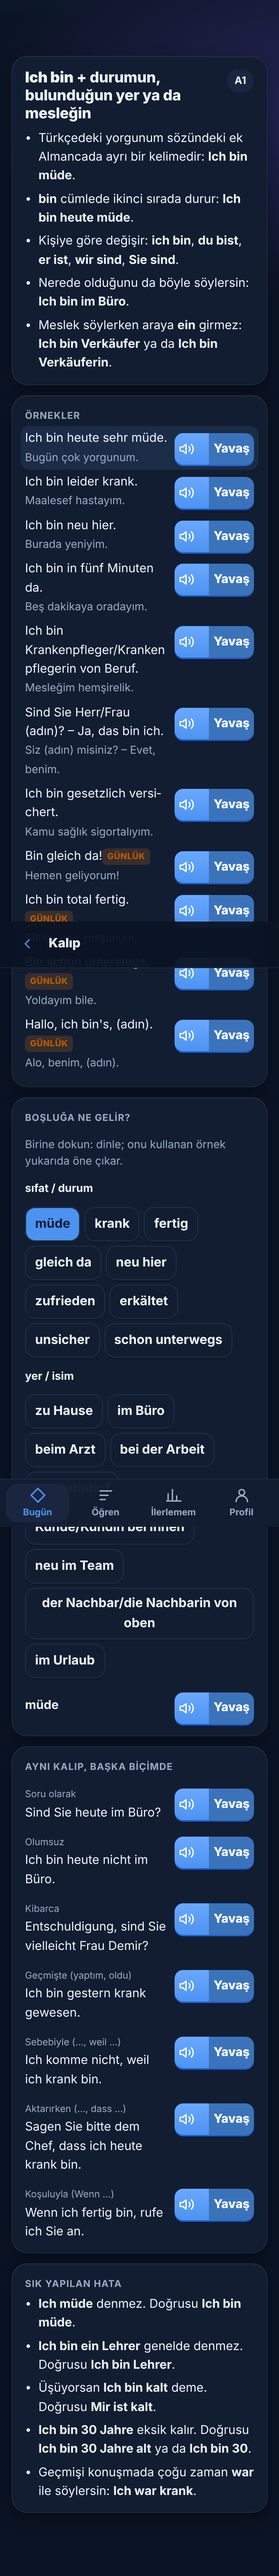
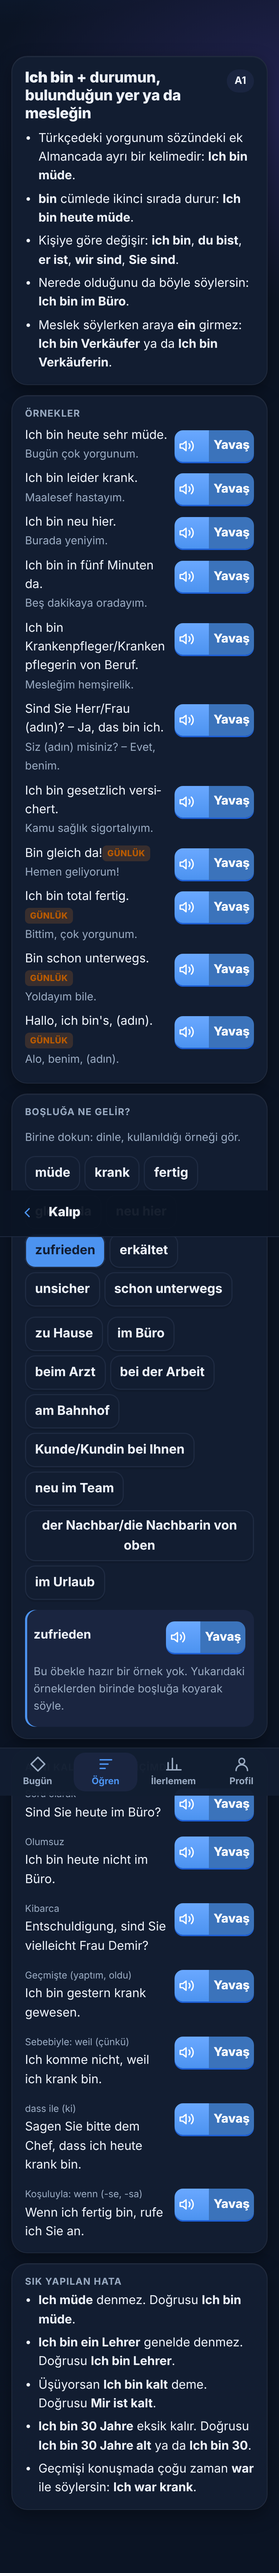
M1 B2: inceleme #94 1. tur — boşluk adları (terimli yazar alanı) gizli, seçilen öbeğin örneği çiplerin altında ve ekranda (yoksa açıklama + yerel anlam), alıştırmadan kalıp kartı alt sayfada (ilerleme korunur), Sözlük'e geri dönüş, Öğren sekmesi seçili, terimsiz dönüşüm etiketleri; e2e kanıtları
#58 B2 · D-110 · OD-9

Claude-Session: https://claude.ai/code/session_016gishG3oMjbKiLi4Fij94B

diff --git a/web/src/screens/Kalip.tsx b/web/src/screens/Kalip.tsx
@@ -4,34 +4,41 @@
  * yazar notudur, gösterilmez (OD-9). Liste: `#/kalip`; kart: `#/kalip/<id>`. Çevrimdışı (sözlük paketiyle gelir).
  */
 import { useEffect, useState } from "preact/hooks";
-import type { Pattern } from "@dw/shared";
+import type { Lexeme, Pattern } from "@dw/shared";
 import { useApp } from "../state.ts";
 import { loadLexicon } from "../services/content.ts";
 import { personalizeDeep } from "../core/persona.ts";
 import { DONUSUM_SIRA, DONUSUM_TR, kalipSirasi, ornekteGecer } from "../core/kalip.ts";
 import { ListenButton, ProgressHeader } from "../ui/kit.tsx";
+import { yerelAcikla } from "../core/sozluk.ts";
+import { Icon } from "../ui/icons.tsx";
 import { ErrorPanel, Loading } from "../ui/components.tsx";
 import { Rich } from "../ui/rich.tsx";
 
-function useKaliplar() {
+export function useKaliplar() {
   const { profile } = useApp();
   const [ps, setPs] = useState<Pattern[] | null>(null);
+  const [lex, setLex] = useState<Lexeme[]>([]);
   const [err, setErr] = useState<string | null>(null);
   useEffect(() => {
-    loadLexicon().then((x) => setPs(personalizeDeep(x.patterns, { name: profile.displayName, address: profile.address })))
+    loadLexicon().then((x) => { setPs(personalizeDeep(x.patterns, { name: profile.displayName, address: profile.address })); setLex(x.lexemes); })
       .catch((e) => setErr(String(e?.message || e)));
   }, []);
-  return { ps, err };
+  return { ps, lex, err };
 }
 
+/** Karttan dönüş: Sözlük'ten gelindiyse oraya (sessionStorage), yoksa listeye (inceleme #94 P1-3) */
+export const KALIP_GERI = "dw:kalip-geri";
+const geriAdres = () => { try { return sessionStorage.getItem(KALIP_GERI) || "#/kalip"; } catch { return "#/kalip"; } };
+
 export function KalipEkrani({ id }: { id?: string }) {
-  const { ps, err } = useKaliplar();
+  const { ps, lex, err } = useKaliplar();
   if (err) return <div class="stack"><ProgressHeader title="Kalıplar" back="#/learn" /><ErrorPanel message={err} onRetry={() => location.reload()} /></div>;
   if (!ps) return <Loading />;
   if (!id) return <KalipListesi ps={ps} />;
   const p = ps.find((x) => x.id === id);
   if (!p) return <div class="stack"><ProgressHeader title="Kalıp" back="#/kalip" /><ErrorPanel message="Bu kalıp bulunamadı." /></div>;
-  return <KalipKarti p={p} />;
+  return <KalipKarti p={p} lex={lex} back={geriAdres()} />;
 }
 
 function KalipListesi({ ps }: { ps: Pattern[] }) {
@@ -40,7 +47,7 @@ function KalipListesi({ ps }: { ps: Pattern[] }) {
       <ProgressHeader title="Kalıplar" back="#/learn" />
       <p class="small muted">Cümle kurmanın kalıpları: kuralı, örnekleri, boşluğa ne gelir, başka biçimleri.</p>
       <ul class="list card">{kalipSirasi(ps).map((p) => (
-        <li><a href={`#/kalip/${encodeURIComponent(p.id)}`} class="row" style={{ textDecoration: "none", color: "inherit", flexWrap: "nowrap" }} data-test="kalip-satir">
+        <li key={p.id}><a href={`#/kalip/${encodeURIComponent(p.id)}`} onClick={() => { try { sessionStorage.removeItem(KALIP_GERI); } catch { /* yok */ } }} class="row" style={{ textDecoration: "none", color: "inherit", flexWrap: "nowrap" }} data-test="kalip-satir">
           <span class="grow">{p.frame_tr ? <Rich text={p.frame_tr} /> : <span lang="de">{p.frame}</span>}<br />
             <span class="small muted" lang="de">{p.examples[0]?.de}</span></span>
           <span class="chip">{p.level}</span><span aria-hidden="true">›</span></a></li>))}</ul>
@@ -48,26 +55,31 @@ function KalipListesi({ ps }: { ps: Pattern[] }) {
   );
 }
 
-export function KalipKarti({ p }: { p: Pattern }) {
+/**
+ * Kalıp kartı. `kapat` verilirse alt sayfa olarak açılır (alıştırmanın içinden: ilerleme silinmez; inceleme #94 P1-3).
+ * Boşluk adları (`slots[].name`) yazar alanıdır ve terim içerebilir (Dativ, Akkusativ…): öğrenciye gösterilmez (OD-9; P1-1).
+ * Seçilen öbek: onu kullanan örnek hemen çiplerin altında; örnek yoksa bunu söyler ve cihazdaki sözlükten anlamını verir (P1-2).
+ */
+export function KalipKarti({ p, lex = [], back = "#/kalip", kapat }: { p: Pattern; lex?: Lexeme[]; back?: string; kapat?: () => void }) {
   const [secili, setSecili] = useState<string | null>(null);
-  const ornekler = secili ? [...p.examples].sort((a, b) => Number(ornekteGecer(b.de, secili)) - Number(ornekteGecer(a.de, secili))) : p.examples;
   const donusum = DONUSUM_SIRA.filter((k) => p.transforms[k]);
-  return (
-    <div class="stack" data-test="kalip-karti" data-id={p.id}>
-      <ProgressHeader title="Kalıp" back="#/kalip" />
+  const eslesen = secili ? p.examples.find((e) => ornekteGecer(e.de, secili)) : undefined;
+  const anlam = secili && !eslesen ? yerelAcikla(secili, lex) : null;
+  const govde = (
+    <>
       <section class="card stack">
         <div class="row" style={{ flexWrap: "nowrap", alignItems: "flex-start" }}>
           <h2 class="grow" data-test="kalip-cerceve">{p.frame_tr ? <Rich text={p.frame_tr} /> : <span lang="de">{p.frame}</span>}</h2>
           <span class="chip">{p.level}</span>
         </div>
-        {p.kurallar_tr.length > 0 && <ul class="kurallar" data-test="kalip-kurallar">{p.kurallar_tr.map((k) => <li><Rich text={k} /></li>)}</ul>}
+        {p.kurallar_tr.length > 0 && <ul class="kurallar" data-test="kalip-kurallar">{p.kurallar_tr.map((k, i) => <li key={i}><Rich text={k} /></li>)}</ul>}
       </section>
 
       <section class="card stack" data-test="kalip-ornekler">
-        <div class="kicker">Örnekler</div>
-        {ornekler.map((e) => {
-          const vurgu = !!secili && ornekteGecer(e.de, secili);
-          return <div class={`row kalip-ornek${vurgu ? " vurgu" : ""}`} style={{ flexWrap: "nowrap", alignItems: "flex-start" }} data-test="kalip-ornek" data-vurgu={vurgu ? "1" : undefined}>
+        <h3 class="kicker">Örnekler</h3>
+        {p.examples.map((e, i) => {
+          const vurgu = !!secili && e === eslesen;
+          return <div key={i} class={`row kalip-ornek${vurgu ? " vurgu" : ""}`} style={{ flexWrap: "nowrap", alignItems: "flex-start" }} data-test="kalip-ornek" data-vurgu={vurgu ? "1" : undefined}>
             <span class="grow"><span lang="de">{e.de}</span>{e.layer === "alltag" && <span class="badge alltag"> günlük</span>}<br /><span class="small muted">{e.tr}</span></span>
             <ListenButton text={e.de} small /></div>;
         })}
@@ -75,25 +87,27 @@ export function KalipKarti({ p }: { p: Pattern }) {
 
       {p.slots.length > 0 && (
         <section class="card stack" data-test="kalip-slotlar">
-          <div class="kicker">Boşluğa ne gelir?</div>
-          <p class="small muted">Birine dokun: dinle; onu kullanan örnek yukarıda öne çıkar.</p>
-          {p.slots.map((s) => (
-            <div class="stack" style={{ gap: 6 }}>
-              <div class="small"><b>{s.name}</b></div>
-              <div class="row" style={{ gap: 6 }} lang="de">{s.fills.map((f) => (
-                <button class="wchip" aria-pressed={secili === f} data-test="kalip-dolgu"
-                  onClick={() => { setSecili(secili === f ? null : f); }}>{f}</button>))}</div>
-            </div>
+          <h3 class="kicker">Boşluğa ne gelir?</h3>
+          <p class="small muted">Birine dokun: dinle, kullanıldığı örneği gör.</p>
+          {p.slots.map((s, si) => (
+            <div key={si} class="row" style={{ gap: 6 }} lang="de" data-test="kalip-slot">{s.fills.map((f) => (
+              <button key={f} class="wchip" aria-pressed={secili === f} data-test="kalip-dolgu" onClick={() => setSecili(secili === f ? null : f)}>{f}</button>))}</div>
           ))}
-          {secili && <div class="row" data-test="kalip-secili"><span class="grow de" lang="de">{secili}</span><ListenButton text={secili} small /></div>}
+          {secili && <div class="stack kalip-secili" style={{ gap: 6 }} data-test="kalip-secili" aria-live="polite"
+            ref={(el) => { if (el && el.dataset.k !== secili) { el.dataset.k = secili; requestAnimationFrame(() => el.scrollIntoView({ block: "nearest", behavior: matchMedia("(prefers-reduced-motion: reduce)").matches ? "auto" : "smooth" })); } }}>
+            <div class="row" style={{ flexWrap: "nowrap" }}><b class="grow de" lang="de">{secili}</b><ListenButton text={secili} small /></div>
+            {eslesen ? <div class="row" style={{ flexWrap: "nowrap", alignItems: "flex-start" }} data-test="kalip-secili-ornek">
+                <span class="grow"><span lang="de">{eslesen.de}</span><br /><span class="small muted">{eslesen.tr}</span></span><ListenButton text={eslesen.de} small /></div>
+              : <p class="small muted" data-test="kalip-secili-yok">Bu öbekle hazır bir örnek yok. Yukarıdaki örneklerden birinde boşluğa koyarak söyle.{anlam?.tr ? <> Anlamı: <b>{anlam.tr}</b></> : null}</p>}
+          </div>}
         </section>
       )}
 
       {donusum.length > 0 && (
         <section class="card stack" data-test="kalip-donusumler">
-          <div class="kicker">Aynı kalıp, başka biçimde</div>
+          <h3 class="kicker">Aynı kalıp, başka biçimde</h3>
           {donusum.map((k) => (
-            <div class="row" style={{ flexWrap: "nowrap", alignItems: "flex-start" }} data-test="kalip-donusum">
+            <div key={k} class="row" style={{ flexWrap: "nowrap", alignItems: "flex-start" }} data-test="kalip-donusum">
               <span class="grow"><span class="tiny muted">{DONUSUM_TR[k]}</span><br /><span lang="de">{p.transforms[k]}</span></span>
               <ListenButton text={p.transforms[k]!} small /></div>
           ))}
@@ -102,10 +116,26 @@ export function KalipKarti({ p }: { p: Pattern }) {
 
       {p.mistakes_tr.length > 0 && (
         <section class="card stack" data-test="kalip-hatalar">
-          <div class="kicker">Sık yapılan hata</div>
-          <ul class="kurallar">{p.mistakes_tr.map((m) => <li><Rich text={m} /></li>)}</ul>
+          <h3 class="kicker">Sık yapılan hata</h3>
+          <ul class="kurallar">{p.mistakes_tr.map((m, i) => <li key={i}><Rich text={m} /></li>)}</ul>
         </section>
       )}
+    </>
+  );
+  if (kapat) return (
+    <div class="whydim" onClick={kapat}>
+      <div class="whysheet kalip-sheet stack" role="dialog" aria-modal="true" aria-label="Kalıp kartı" data-test="kalip-karti" data-id={p.id} onClick={(e) => e.stopPropagation()}>
+        <div class="row" style={{ flexWrap: "nowrap" }}><h2 class="grow">Kalıp</h2>
+          <button class="iconbtn" aria-label="Kapat" data-test="kalip-kapat" onClick={kapat}><Icon name="x" /></button></div>
+        {govde}
+        <button class="btn primary block" onClick={kapat}>Alıştırmaya dön</button>
+      </div>
+    </div>
+  );
+  return (
+    <div class="stack" data-test="kalip-karti" data-id={p.id}>
+      <ProgressHeader title="Kalıp" back={back} />
+      {govde}
     </div>
   );
 }

diff --git a/web/src/screens/Player.tsx b/web/src/screens/Player.tsx
@@ -4,6 +4,7 @@
  * - Her cevap öğrenci modeline (FSRS çift yol) işlenir; odak motoru her bölümde etkinliği bilir.
  * - Üretim başarısızsa (<%50) bir önceki aşama yeniden açılır (geri dönüş kuralı).
  */
+import { KalipKarti } from "./Kalip.tsx";
 import { countsAsCorrect, expandTaught, isSameAsGiven, REGISTER_HINT } from "../core/answer.ts";
 import { Rich } from "../ui/rich.tsx";
 import { isRepeatRequest, offlineDialogueIndex } from "../core/offline.ts";
@@ -247,6 +248,8 @@ function ChipBuilder({ target, onSubmit }: { target: string; onSubmit: (s: strin
 const Count = ({ i, n }: { i: number; n: number }) => <span class="tiny" data-test="item-count">{Math.min(i + 1, n)}/{n}</span>;
 function BuildSection({ ctx, finish, back, setSub }: SP) {
   const r = useRun(ctx.s.build);
+  // #58 B2: kalıp kartı alt sayfada açılır; alıştırmadan çıkılmaz, tur konumu ve puan kaybolmaz (inceleme #94 P1-3)
+  const [kalipAcik, setKalipAcik] = useState(false);
   useEffect(() => { setSub?.(<Count i={r.i} n={r.total} />); }, [r.i]);
   useEffect(() => { if (r.done && r.total) void finish(r.score, r.total); }, [r.done]);
   if (!r.total) return <Empty title="Bu senaryoda cümle kurma maddesi yok" />;
@@ -255,8 +258,9 @@ function BuildSection({ ctx, finish, back, setSub }: SP) {
   const p = b.pattern ? ctx.pt.get(b.pattern) : undefined;
   return (
     <div class="stack" key={b.id}>
+      {kalipAcik && p && <KalipKarti p={p} kapat={() => setKalipAcik(false)} />}
       <ProduceItem ctx={ctx} itemId={b.id} accepted={b.accepted} hint={b.prompt_tr} chips={r.i % 3 === 0 && !b.accepted[0]!.includes("{name}")}
-        prompt={<><div class="kicker">Almanca kur · {r.i + 1}/{r.total}</div><div class="de-lg">{b.prompt_tr}</div>{p?.frame_tr && <div class="tiny muted">Kalıp: <a href={`#/kalip/${encodeURIComponent(p.id)}`} data-test="kalip-bag"><Rich text={p.frame_tr} /></a></div>}</>}
+        prompt={<><div class="kicker">Almanca kur · {r.i + 1}/{r.total}</div><div class="de-lg">{b.prompt_tr}</div>{p?.frame_tr && <div class="tiny muted">Kalıp: <button class="kalip-bag-btn" data-test="kalip-bag" onClick={() => setKalipAcik(true)}><Rich text={p.frame_tr} /></button></div>}</>}
         onDone={(ok) => { if (p) void rec(p.id, "pattern", "active", ok ? "correct" : "wrong"); r.next(ok); }} />
     </div>
   );

diff --git a/web/src/screens/Sozluk.tsx b/web/src/screens/Sozluk.tsx
@@ -4,6 +4,7 @@
  * (LS-7.5). Sözlükte olmayan kelime de "Duyduğum kelime" olarak eklenebilir (anlamı isteğe bağlı).
  * Kart adresle açılır (#/sozluk/<arama>/<kart>): geri hareketi aramaya döner.
  */
+import { KALIP_GERI } from "./Kalip.tsx";
 import { useEffect, useMemo, useState } from "preact/hooks";
 import type { Lexeme, Pattern } from "@dw/shared";
 import { useApp } from "../state.ts";
@@ -61,7 +62,8 @@ export function SozlukEkrani({ q: ilk = "", id }: { q?: string; id?: string }) {
           {sec.mistakes_tr[0] && <div class="tiny muted"><Rich text={sec.mistakes_tr[0]} /></div>}
           {/* #58 B2: kelimenin kullanıldığı kalıplar → kalıp kartı */}
           {sec.patterns.some((id) => kaliplar.has(id)) && <div class="small" data-test="sozluk-kaliplar"><div class="kicker">Kalıpları</div>
-            {sec.patterns.filter((id) => kaliplar.has(id)).map((id) => <div><a href={`#/kalip/${encodeURIComponent(id)}`}><Rich text={kaliplar.get(id)!.frame_tr ?? kaliplar.get(id)!.frame} /></a></div>)}</div>}
+            {sec.patterns.filter((id) => kaliplar.has(id)).map((id) => <a key={id} class="kalip-link" href={`#/kalip/${encodeURIComponent(id)}`}
+              onClick={() => { try { sessionStorage.setItem(KALIP_GERI, location.hash); } catch { /* yok */ } }}><Rich text={kaliplar.get(id)!.frame_tr ?? kaliplar.get(id)!.frame} /></a>)}</div>}
           <button class="btn primary block" disabled={var_} data-test="sozluk-ekle" onClick={() => void ekle(de, sec.tr, sec)}>{var_ ? (bahceye ? "Bahçende ✓" : "Listende ✓") : "Duyduğum kelime olarak ekle"}</button>
           <p class="tiny muted" data-test="sozluk-ekle-not">{bahceye ? "Bahçe'de tekrarlarda öne alınır." : "Kişisel listene girer; bu kelimenin Bahçe kartı yok."}</p>
           <a class="btn block" href={aramaAdresi(q)} data-test="sozluk-geri">Aramaya dön</a>

diff --git a/web/src/styles.css b/web/src/styles.css
@@ -540,6 +540,10 @@ main { overflow-x: clip; }
 /* Kalıp kartı (#58 B2): kurallar tek fikir satırları, seçilen öbeği kullanan örnek vurgulu */
 .kurallar { margin: 0; padding-left: 1.1em; display: grid; gap: 6px; }
 .kalip-ornek { border-radius: 12px; padding: 4px 6px; margin: 0 -6px; transition: background 200ms ease-out; }
-.kalip-ornek.vurgu { background: var(--himmel-2); }
+.kalip-ornek.vurgu { background: var(--himmel-2); box-shadow: inset 3px 0 0 var(--himmel); }
+.kalip-secili { scroll-margin-bottom: calc(96px + var(--safe-bottom, 0px)); padding: 10px 12px; border-radius: 14px; background: var(--soft); box-shadow: inset 3px 0 0 var(--himmel); }
+.kalip-link, .kalip-bag-btn { display: flex; align-items: center; min-height: 44px; color: var(--himmel-ink); text-decoration: underline; }
+.kalip-bag-btn { background: none; border: 0; padding: 0; font: inherit; text-align: left; cursor: pointer; }
+.kalip-sheet { max-height: 88vh; overflow-y: auto; }
 .wchip[aria-pressed="true"] { background: var(--himmel); color: var(--card); }
 @media (prefers-reduced-motion: reduce) { .kalip-ornek { transition: none; } }

diff --git a/web/src/ui/components.tsx b/web/src/ui/components.tsx
@@ -10,7 +10,7 @@ import { Icon } from "./icons.tsx";
 const ICONS = { today: <Icon name="raute" size={24} />, learn: <Icon name="list" size={24} />, progress: <Icon name="chart" size={24} />, profile: <Icon name="user" size={24} /> };
 
 export function TabBar({ route }: { route: Route }) {
-  const tab = route.name === "learn" || route.name === "domain" || route.name === "scenario" || route.name === "sozluk" ? "learn" : route.name === "progress" ? "progress" : route.name === "profile" ? "profile" : "today";
+  const tab = route.name === "learn" || route.name === "domain" || route.name === "scenario" || route.name === "sozluk" || route.name === "kalip" ? "learn" : route.name === "progress" ? "progress" : route.name === "profile" ? "profile" : "today";
   const items: [string, string, keyof typeof ICONS, string][] = [
     ["today", "#/today", "today", "Bugün"],
     ["learn", "#/learn", "learn", "Öğren"],

diff --git a/web/src/core/kalip.ts b/web/src/core/kalip.ts
@@ -10,9 +10,9 @@ export const DONUSUM_TR: Record<keyof Pattern["transforms"], string> = {
   negative: "Olumsuz",
   polite: "Kibarca",
   perfekt: "Geçmişte (yaptım, oldu)",
-  weil: "Sebebiyle (…, weil …)",
-  dass: "Aktarırken (…, dass …)",
-  wenn: "Koşuluyla (Wenn …)"
+  weil: "Sebebiyle: weil (çünkü)",
+  dass: "dass ile (ki)",
+  wenn: "Koşuluyla: wenn (-se, -sa)"
 };
 export const DONUSUM_SIRA = Object.keys(DONUSUM_TR) as (keyof Pattern["transforms"])[];
 

diff --git a/tests/e2e/v2_kalip.py b/tests/e2e/v2_kalip.py
@@ -36,20 +36,45 @@ def main():
             check(pg.locator("[data-test=kalip-hatalar] li").count() == len(p0["mistakes_tr"]), f"[{tema}] sık hatalar")
             metin = pg.inner_text("[data-test=kalip-karti]")
             check(p0["grammar_tr"][:30] not in metin, f"[{tema}] yazar notu (grammar_tr) öğrenciye görünmüyor")
-            # slot doldurma: "müde" seçilince onu kullanan örnek öne çıkar
-            pg.locator("[data-test=kalip-dolgu]", has_text="müde").first.click()
-            check(pg.locator("[data-test=kalip-secili]").count() == 1, f"[{tema}] seçilen öbek dinlenebilir")
-            ilk = pg.locator("[data-test=kalip-ornek]").first
-            check(ilk.get_attribute("data-vurgu") == "1" and "müde" in ilk.inner_text(), f"[{tema}] seçilen öbeği kullanan örnek öne çıktı ({ilk.inner_text()[:40]!r})")
+            # OD-9: yazar alanı boşluk adları (terim içerebilir) öğrenciye görünmez (inceleme #94 P1-1)
+            check(all(sl["name"] not in metin for sl in p0["slots"]), f"[{tema}] boşluk adları (yazar alanı) görünmüyor")
+            check(pg.get_attribute("[data-tab=learn]", "aria-current") == "page", f"[{tema}] sekme çubuğunda Öğren seçili (inceleme #94 P1-4)")
+            # slot doldurma: ilk örnekte geçmeyen öbek ("fertig", 9. örnek) → örneği çiplerin hemen altında, ekranda (P1-2)
+            pg.locator("[data-test=kalip-dolgu]", has_text="fertig").first.click()
+            ornek = pg.locator("[data-test=kalip-secili-ornek]")
+            check(ornek.count() == 1 and "fertig" in ornek.inner_text(), f"[{tema}] seçilen öbeği kullanan örnek çiplerin altında ({ornek.inner_text()[:40] if ornek.count() else ''!r})")
+            pg.wait_for_function("() => { const r = document.querySelector('[data-test=kalip-secili-ornek]').getBoundingClientRect(); return r.bottom <= innerHeight && r.top >= 0; }", timeout=3000)
+            kutu = ornek.bounding_box(); yuk = pg.evaluate("innerHeight")
+            check(kutu is not None and kutu["y"] + kutu["height"] <= yuk and kutu["y"] >= 0, f"[{tema}] örnek ekranda görünüyor (y={kutu and round(kutu['y'])}, pencere {yuk})")
+            check(pg.locator("[data-test=kalip-ornek][data-vurgu='1']").count() == 1, f"[{tema}] örnek listesinde de vurgulu")
+            # örneği olmayan öbek: bunu söyler
+            pg.locator("[data-test=kalip-dolgu]", has_text="zufrieden").first.click()
+            check(pg.locator("[data-test=kalip-secili-yok]").count() == 1, f"[{tema}] örneği olmayan öbekte açıklama")
             no_overflow(pg, f"[{tema}] kalıp kartı")
             if shots: shot(pg, f"k01-kart-{tema}", full=True)
             pg.evaluate("document.documentElement.classList.remove('dyn'); document.documentElement.style.setProperty('--ts','1.3')")
             no_overflow(pg, f"[{tema}] %130 yazı kalıp kartı")
             if tema == "light":
+                # kişiselleştirme: ad ve hitap girilince yer tutucular çözülür ({Kunde|Kundin}, {name}) — P1-5
+                pg.goto(base + "#/profile"); pg.wait_for_selector("#nm"); pg.fill("#nm", "Novak"); pg.click("[data-address=Frau]"); pg.wait_for_timeout(600)
+                pg.goto(base + "#/kalip/pt:ich-bin"); pg.wait_for_selector("[data-test=kalip-karti]")
+                km = pg.inner_text("[data-test=kalip-karti]")
+                check("{" not in km and "Kundin bei Ihnen" in km and "Kunde/Kundin" not in km, "hitaba göre çözüldü (Frau → Kundin), ham yer tutucu yok")
+                # alıştırmadan alt sayfa: ilerleme kaybolmaz (P1-3)
+                pg.goto(base + "#/scenario/sc:telefon:01-arzttermin/build"); pg.wait_for_selector(".pbar h1")
+                pg.wait_for_selector("[data-test=kalip-bag]", timeout=10000)
+                if True:
+                    once = pg.inner_text(".pbar")
+                    pg.click("[data-test=kalip-bag]"); pg.wait_for_selector("[role=dialog][data-test=kalip-karti]")
+                    check("#/scenario/" in pg.url, "kalıp kartı alıştırmanın üstünde açılır (sayfa değişmez)")
+                    pg.click("[data-test=kalip-kapat]")
+                    check(pg.locator("[data-test=kalip-karti]").count() == 0 and pg.inner_text(".pbar") == once, "kapatınca aynı maddede devam")
                 pg.goto(base + f"#/sozluk/{lx['de']}/{lx['id']}"); pg.wait_for_selector("[data-test=sozluk-kart]")
                 check(pg.locator("[data-test=sozluk-kaliplar] a").count() >= 1, f"Sözlük kartında kelimenin kalıbı ({lx['id']})")
                 pg.locator("[data-test=sozluk-kaliplar] a").first.click(); pg.wait_for_selector("[data-test=kalip-karti]")
                 check(pg.get_attribute("[data-test=kalip-karti]", "data-id") in lx["patterns"], "bağlantı kalıp kartını açar")
+                pg.click(".pbar a[aria-label=Geri]"); pg.wait_for_selector("[data-test=sozluk-kart]")
+                check(True, "kalıp kartından geri: Sözlük kartına döner")
             b.close()
     srv.shutdown()
     finish()

diff --git a/docs/v2/DECISIONS.md b/docs/v2/DECISIONS.md
@@ -93,4 +93,4 @@ Biçim: **Kimlik · tarih · karar** — gerekçe. Kaynak: proje sahibi (PS) ya 
 - **D-106 · 2026-11-19 · Bahçe boşluk ipucu ve eş anlamlı kabul (PM 7004537514-2; İÇ 7003635425-2/-3).** `forms[].hint_tr` soru sırasında görünmez: "İpucu" düğmesiyle açılırsa cevap `hinted` sayılır; yanlış cevaptan sonra açıklama olarak gösterilir. `forms[].also_ok: string[]` boşluğa giren eş anlamlı başka doğru cevaplardır (kriegen/bekommen, deshalb/deswegen); kelime ve bütün cümle biçimleriyle kabul edilir. Doğrulayıcı uyarısı: aynı boşluk cümlesi ve çevirisi farklı kartlarda farklı cevapla geçiyorsa (also_ok ile birleştir ya da cümleyi ayır); also_ok cevabın kendisini tekrar ediyorsa.
 - **D-107 · 2026-11-19 · Şölen 1: cevap anı, ilerleme, XP ve seri, kutlama (#58 B10, PM-059).** Doğru cevapta yeşile yumuşak geçiş, yaylanan onay işareti, WebAudio ile üretilen kısa ton (dosya yok), "+N XP" uçuşu, 3+ üst üste rozeti; yanlışta hafif sallanma ve sakin mercan tonu (bordo kalktı). Üstte dolan ilerleme çubuğu (sayı ekran okuyucuda). Bugün'de mücevherli XP sayacı (sayarak artar), günlük hedef çubuğu (50 XP, gösterge), filizli seri ve 7 günlük noktalar. Tur ve ders sonunda CSS konfeti (1–2 sn) + özet (doğru, XP, öğrenilen kelime çipleri, seri, yarın). Profil: "Efekt sesleri" (`ui.sfx`) ve "Kutlama animasyonları" (`ui.celebrations`). `prefers-reduced-motion`: animasyon yok, içerik ve renk aynı. Hiçbir animasyon cevabı geciktirmez ("Devam" ≤ 400 ms içinde basılabilir; e2e ölçer). Yeni bağımlılık yok; çizimler özgün (mücevher, filiz). XP miktarları D-102'deki gibi (doğru 2, adım 10). **İnceleme #87 1. tur sonrası:** (a) geçiş animasyonları yalnızca opaklık (transform, sabit eylem çubuğunu kaydırıyordu); (b) "+XP" cevap anında uçar (`dw:xp-ucus`, miktar ekrandan `CevapXp` bağlamıyla: tekrar çalışmada ve daha önce XP almış soruda 0), kayıt yine "Devam"da; (c) günlük hedef aşılınca "Günlük hedef tamam · N XP" (oran yazılmaz; RQ-Ş24). 50 XP bilerek küçük bir alışkanlık hedefidir; (d) yanlışta önce doğrusu (metin renginde, büyük), açıklama, en sonda öğrencinin cevabı; Bahçe'de örnek cümle hemen üstteki kartta; (e) AA kontrast: mercan `#a63d1f` (5,5:1), doğru bandı koyu yeşil, işaret ve rozet koyu zemin; (f) "üst üste" ekran değişince sıfırlanır, rapor/kontrol bantları sayılmaz; bitmiş ders yeniden açılınca kutlama yok; ilerleme bitmiş madde sayısıdır (ders madde bazlı); iOS ses kilidi ilk dokunuşta açılır.
 - **D-108 · 2026-11-19 · Doğrulayıcı: içerik güvenliği ve kart kuralları (#58 B4, #54 D16; inceleme #88 1. tur sonrası).** (1) **İçerik güvenliği süzgeci** öğrenciye görünen bütün metinleri tarar: kartlar, kalıplar, senaryolar, temel dersler, M1 günleri, dünya, seviye tespiti bankası, dilbilgisi notları, alanlar. Dört tür: *kaba/hakaret* (DE+TR; Almanca kök kelimenin içinde de aranır: Hundescheiße, Scheißkerl; Türkçe, Türkçe küçük harfle: İbne), *şiddet* (töten, erschossen, Mord, Leiche…), *aşırıcılık* (her yerde hata), *hassas* (siyaset, intihar, uyuşturucu, savaş; uyarı). Kaba ve şiddet aktif içerikte **hata**. Yalnızca tanıma kartında (`tier: passive`) kalabilir: öğrenci duyduğunu anlasın, kendisi kullanmasın. Kartın Türkçe açıklamasında kullanım uyarısı varsa sessiz, yoksa uyarı. Almanca kalıplar Türkçe açıklama alanlarında aranmaz ("Scheiße deme, So ein Mist de" üst dildir). Deyim ve fiil ayrımı: "bringt mich um" (sırtım beni öldürüyor) ve "Krieg ich…?" (kriegen) yakalanmaz. (2) **Üretim havuzu:** *bütün* pasif (yalnızca tanıma) kartlar M1 `yeni_kartlar`, senaryo temel öğesi ve K1 çekirdeğinde olamaz (hata; 2. tur); kelimenin kendisi kabul cevabına, alıştırmaya ya da provaya girerse aktif metin taramasıyla hata. Önceki "pasif kartta forms hata" kuralı kaldırıldı: `forms` üretime sokmaz, çekimli biçimi tanımak (umgebracht) anlamak için gerekir. (3) K1 isimde `forms`, K1'de 3+ eşdizim, somut kelimede örnek başına `img`: sayılı uyarı; `content/tools/b4-taban.json` bugünkü sayıları (46/119/167) taban tutar, sayı tabanı aşarsa **hata**. Taban içerik düzeldikçe elle düşer; 0 olunca kural kalıcı hatadır. `hassas_onay`: incelenmiş hassas konu uyarıları kapanır (kimlik ve gerekçe #12'de). **2. tur:** şiddet kalıbında "um" yalnızca cümle sonunda ("Ich bringe sie um acht…" saat bildirir), `töten` yalnızca ö/oe (der tote Winkel değil); kelime başı kaba kökler (Arsch-, Kanake, Fresse; Marsch/Barsch/Warschau değil); "bomba gibi" deyimi şiddet değil; kullanım uyarısı kelime sınırıyla (ödeme, kargo değil).
-- **D-110 · 2026-11-19 · Kalıp kartı (#58 B2).** Öğren → **Kalıplar** (`#/kalip`, önce temel kalıplar, sonra seviye) ve kart (`#/kalip/<id>`): çerçeve (`frame_tr`), kurallar (`kurallar_tr`, tek fikir satırları), örnekler (dinlenebilir, günlük katman işaretli), **boşluğa ne gelir** (slot dolguları dinlenebilir çip; seçilen öbeği kullanan örnek öne çıkar), **aynı kalıp başka biçimde** (soru, olumsuz, kibarca, geçmişte, sebebiyle, aktarırken, koşuluyla), sık hata. `grammar_tr` yazar notudur, gösterilmez (OD-9). Cümle otomatik birleştirilmez: içerikteki dolgular çerçeveye düz eklenecek biçimde yazılmadığından ("Würden Sie bitte" + "mich zurückrufen") yanlış Almanca üretirdi. Bağlantılar: Sözlük kartında kelimenin kalıpları, alıştırmadaki "Kalıp:" satırı. Çevrimdışı (sözlük paketiyle gelir).
+- **D-110 · 2026-11-19 · Kalıp kartı (#58 B2).** Öğren → **Kalıplar** (`#/kalip`, önce temel kalıplar, sonra seviye) ve kart (`#/kalip/<id>`): çerçeve (`frame_tr`), kurallar (`kurallar_tr`, tek fikir satırları), örnekler (dinlenebilir, günlük katman işaretli), **boşluğa ne gelir** (slot dolguları dinlenebilir çip; seçilen öbeği kullanan örnek öne çıkar), **aynı kalıp başka biçimde** (soru, olumsuz, kibarca, geçmişte, sebebiyle, aktarırken, koşuluyla), sık hata. `grammar_tr` yazar notudur, gösterilmez (OD-9). Cümle otomatik birleştirilmez: içerikteki dolgular çerçeveye düz eklenecek biçimde yazılmadığından ("Würden Sie bitte" + "mich zurückrufen") yanlış Almanca üretirdi. Bağlantılar: Sözlük kartında kelimenin kalıpları, alıştırmadaki "Kalıp:" satırı. Çevrimdışı (sözlük paketiyle gelir). **İnceleme #94 1. tur sonrası:** boşluk adları (`slots[].name`, yazar alanı; 61 kalıbın 37'sinde Dativ, Akkusativ gibi terimler) öğrenciye gösterilmez (OD-9). Seçilen öbeğin örneği çiplerin hemen altında ve ekrana kaydırılarak; örnek yoksa bunu söyler ve cihazdaki sözlükten anlamını verir (dolguların %54'ünün örneği yok). Alıştırmadan kalıp kartı alt sayfada açılır (ilerleme silinmez); Sözlük'ten açılan kartın geri oku Sözlük'e döner; Öğren sekmesi seçili; dönüşüm etiketleri terimsiz ve `…`sız.

diff --git a/docs/v2/STATUS.md b/docs/v2/STATUS.md
@@ -26,7 +26,7 @@ Yeni oturum: `CLAUDE.md` (okuma listesi: AHTAPOT → YOL_HARITASI → OGRETIM_DO
 | İş | Dal | Durum |
 |---|---|---|
 | Konuşma provası, yapay zekâsız (#58 A7) | `v2/prova` | #68 birleşti |
-| Kalıp kartı (#58 B2) | `v2/kalip-karti` | PR açıldı (D-110) |
+| Kalıp kartı (#58 B2) | `v2/kalip-karti` | PR #94: 1. tur 5 P1 düzeltildi; 2. tur (D-110) |
 | Şölen 1 (#58 B10, PM-059) | `v2/solen-1` | PR #87: 1. tur 5 P1 + 9 P2 düzeltildi (D-107 sonu); 2. tur bekliyor |
 | Doğrulayıcı B4 (#58 B4, #54 D16) | `v2/dogrulayici-b4` | PR #88: 1. tur 5 P1 düzeltildi (D-108); 0 hata, 126 uyarı; İÇ iş listesi: 7 şiddet tanıma kartında kullanım uyarısı, 46/119/167 kart kuralı; 2. tur bekliyor |
 | Değerlendirme doğruluğu (#58 A11) | `v2/degerlendirme` | PR #76: 1. tur P0 (V2 aşırı kabul) ve P1'ler düzeltildi; kalıcı permütasyon taraması; 2. tur bekliyor (D-104) |
